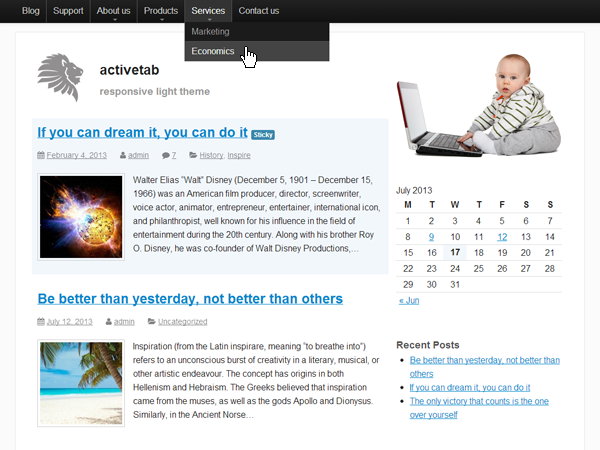
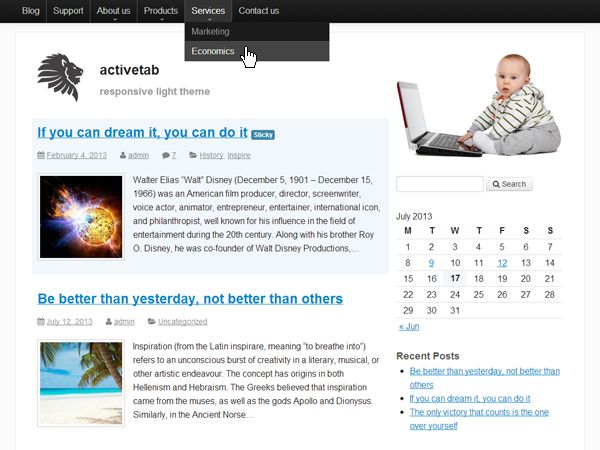
New version of activetab - 0.4.4

Changed region(s): [[0.66, 0.4044, 0.93, 0.9644], [0.06, 0.0933, 0.15, 0.2178], [0.75, 0.4356, 0.78, 0.4667]]

diff --git a/style.css b/style.css
@@ -2,7 +2,7 @@
 Theme Name: activetab
 Theme URI: http://web-profile.com.ua/wordpress/themes/activetab/
 Description: Responsive light theme. More info at http://web-profile.com.ua/wordpress/themes/activetab/
-Version: 0.4.3
+Version: 0.4.4
 Author: webvitaly
 Author URI: http://web-profile.com.ua/wordpress/
 Tags: gray, white, light, one-column, two-columns, right-sidebar, flexible-width, custom-background, custom-header, custom-menu, editor-style, featured-images, flexible-header, full-width-template, microformats, rtl-language-support, sticky-post, theme-options, threaded-comments, translation-ready

diff --git a/comments.php b/comments.php
@@ -93,9 +93,9 @@
 			$aria_req = ( $req ? " required='required'" : '' );
 			$comment_form_args = array(
 				'fields' => array(
-					'author' => '<div class="control-group comment-form-author"> <label for="author"><strong>'.__( 'Name', 'activetab' ).'</strong></label> <div class="input-prepend"><span class="add-on"><i class="icon-user"></i></span><input id="author" class="input-large" name="author" type="text" value="' . esc_attr( $commenter['comment_author'] ) . '" ' . $aria_req . ( $req ? ' required ' : '' ) . ' /></div></div>',
-					'email'  => '<div class="control-group comment-form-email"> <label for="email"><strong>'.__( 'Email', 'activetab' ).'</strong></label> <div class="input-prepend"><span class="add-on"><i class="icon-envelope"></i></span><input id="email" class="input-large" name="email" type="email" value="' . esc_attr( $commenter['comment_author_email'] ) . '" ' . $aria_req . ( $req ? ' required ' : '' ) . ' /></div> <span class="help-inline"><span class="muted smaller-text">'.__( 'Email will not be published', 'activetab' ).'</span></span> </div>',
-					'url'    => '<div class="control-group comment-form-url"> <label for="url"><strong>'.__( 'Website', 'activetab' ).'</strong></label> <div class="input-prepend"><span class="add-on"><i class="icon-globe"></i></span><input id="url" class="input-large" name="url" type="url" value="' . esc_attr( $commenter['comment_author_url'] ) . '" /></div> <span class="help-inline"><span class="muted smaller-text">'.__( 'Example: http://google.com', 'activetab' ).'</span></span> </div>',
+					'author' => '<div class="control-group comment-form-author"> <label for="author"><strong>'.__( 'Name', 'activetab' ).'</strong></label> <div class="input-prepend"><span class="add-on"><i class="icon-user"></i></span><input id="author" class="input-large" name="author" type="text" value="' . esc_attr( $commenter['comment_author'] ) . '" ' . $aria_req . ( $req ? ' required ' : '' ) . '></div></div>',
+					'email'  => '<div class="control-group comment-form-email"> <label for="email"><strong>'.__( 'Email', 'activetab' ).'</strong></label> <div class="input-prepend"><span class="add-on"><i class="icon-envelope"></i></span><input id="email" class="input-large" name="email" type="email" value="' . esc_attr( $commenter['comment_author_email'] ) . '" ' . $aria_req . ( $req ? ' required ' : '' ) . '></div> <span class="help-inline"><span class="muted smaller-text">'.__( 'Email will not be published', 'activetab' ).'</span></span> </div>',
+					'url'    => '<div class="control-group comment-form-url"> <label for="url"><strong>'.__( 'Website', 'activetab' ).'</strong></label> <div class="input-prepend"><span class="add-on"><i class="icon-globe"></i></span><input id="url" class="input-large" name="url" type="url" value="' . esc_attr( $commenter['comment_author_url'] ) . '"></div> <span class="help-inline"><span class="muted smaller-text">'.__( 'Example: http://google.com', 'activetab' ).'</span></span> </div>',
 				),
 				'comment_field'        => '<div class="control-group comment-form-comment"> <label for="comment"><strong>'.__( 'Comment', 'activetab' ).'</strong></label> <div class="input-prepend"><span class="add-on"><i class="icon-comment"></i></span><textarea id="comment" class="input-xlarge" name="comment" cols="45" rows="8" required="required"></textarea></div></div>',
 				'must_log_in'          => '<div class="control-group must-log-in"><span class="help-block muted smaller-text">' . sprintf( __( 'You must be <a href="%s">logged in</a> to post a comment.', 'activetab' ), wp_login_url( apply_filters( 'the_permalink', get_permalink( $post_id ) ) ) ) . '</span></div>',

diff --git a/options-framework/options-framework.php b/options-framework/options-framework.php
@@ -272,8 +272,8 @@ function optionsframework_page() {
 			<?php settings_fields( 'optionsframework' ); ?>
 			<?php optionsframework_fields(); /* Settings */ ?>
 			<div id="optionsframework-submit">
-				<input type="submit" class="button-primary" name="update" value="<?php echo esc_attr( __( 'Save options', 'activetab' ) ); ?>" />
-				<input type="submit" class="reset-button button-secondary" name="reset" value="<?php echo esc_attr( __( 'Restore defaults', 'activetab' ) ); ?>" onclick="return confirm( '<?php print esc_js( __( 'Click OK to reset. Any theme settings will be lost!', 'activetab' ) ); ?>' );" />
+				<input type="submit" class="button-primary" name="update" value="<?php echo esc_attr( __( 'Save options', 'activetab' ) ); ?>">
+				<input type="submit" class="reset-button button-secondary" name="reset" value="<?php echo esc_attr( __( 'Restore defaults', 'activetab' ) ); ?>" onclick="return confirm( '<?php print esc_js( __( 'Click OK to reset. Any theme settings will be lost!', 'activetab' ) ); ?>' );">
 				<div class="clear"></div>
 			</div>
 			</form>

diff --git a/searchform.php b/searchform.php
@@ -2,7 +2,7 @@
 <div class="site-search">
 	<form action="<?php echo esc_url( home_url( '/' ) ); ?>" method="get" class="form-inline" id="searchform" role="search">
 		<fieldset>
-			<input type="search" value="<?php echo get_search_query(); ?>" class="input-medium" id="search" name="s" />
+			<input type="search" value="<?php echo get_search_query(); ?>" class="input-medium" id="search" name="s">
 			<input type="submit" value="<?php echo esc_attr( __( 'Search', 'activetab' ) ); ?>" class="btn search-submit-button-real">
 			<span class="btn search-submit-button hide nowrap"><i class="icon-search"></i> <?php echo esc_attr( __( 'Search', 'activetab' ) ); ?></span>
 		</fieldset>

diff --git a/header.php b/header.php
@@ -1,15 +1,13 @@
 <!doctype html>
 <html <?php language_attributes(); ?>>
 <head>
-<meta charset="<?php bloginfo( 'charset' ); ?>" />
-<meta name="viewport" content="width=device-width" />
-
+<meta charset="<?php bloginfo( 'charset' ); ?>">
+<meta name="viewport" content="width=device-width">
 
 <title><?php wp_title( '|', true, 'right' ); ?></title>
 
-
-<link rel="profile" href="http://gmpg.org/xfn/11" />
-<link rel="pingback" href="<?php bloginfo( 'pingback_url' ); ?>" />
+<link rel="profile" href="http://gmpg.org/xfn/11">
+<link rel="pingback" href="<?php bloginfo( 'pingback_url' ); ?>">
 
 <?php // add support for html5 elements in older IE versions ?>
 <!--[if lt IE 9]>

diff --git a/template-part-logo-title-description.php b/template-part-logo-title-description.php
@@ -22,7 +22,7 @@ if ( ! empty( $logo_url ) || ! empty( $show_site_title ) || ! empty( $show_site_
 		<div class="site-logo-title clearfix">
 			<?php if ( ! empty( $logo_url ) ) : ?>
 				<div class="site-logo">
-					<?php echo $link_before; ?><img src="<?php echo $logo_url; ?>" /><?php echo $link_after; ?>
+					<?php echo $link_before; ?><img src="<?php echo $logo_url; ?>" alt="<?php echo $title_desc; ?>"><?php echo $link_after; ?>
 				</div> <!-- /.site-logo -->
 			<?php endif; ?>
 

diff --git a/sidebar.php b/sidebar.php
@@ -25,7 +25,7 @@
 									<img class="border-radius" src="<?php echo esc_url( $header_image ); ?>"
 					                   height="<?php echo get_custom_header()->height; ?>"
 					                   width="<?php echo get_custom_header()->width; ?>"
-					                   alt="<?php echo $title_desc ?>" />
+					                   alt="<?php echo $title_desc ?>">
 								<?php echo $link_after; ?>
 							<?php endif; ?>
 

diff --git a/functions.php b/functions.php
@@ -5,7 +5,7 @@ if ( ! isset( $content_width ) ) {
 }
 
 
-$activetab_version = '0.4.3';
+$activetab_version = '0.4.4';
 
 
 if ( ! function_exists( 'activetab_enqueue_scripts_and_styles' ) ) :
